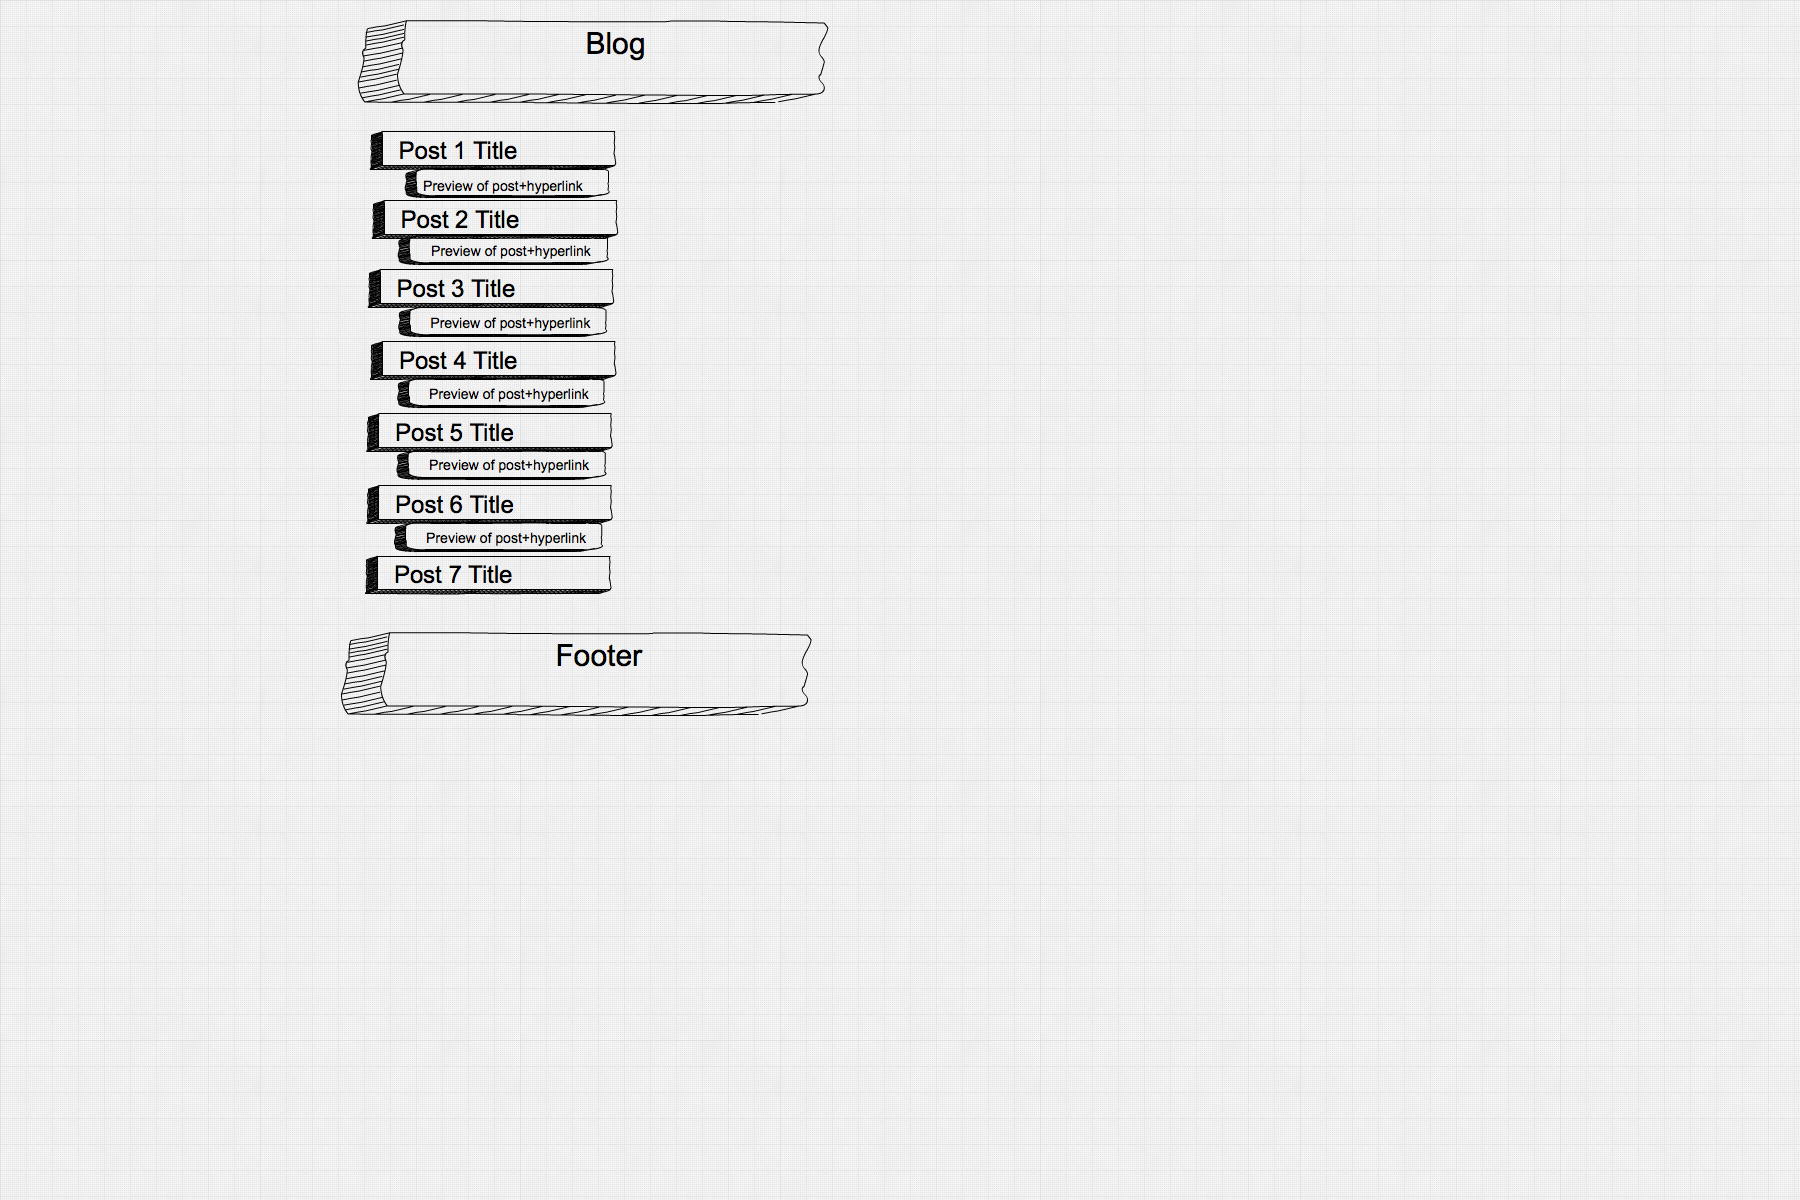
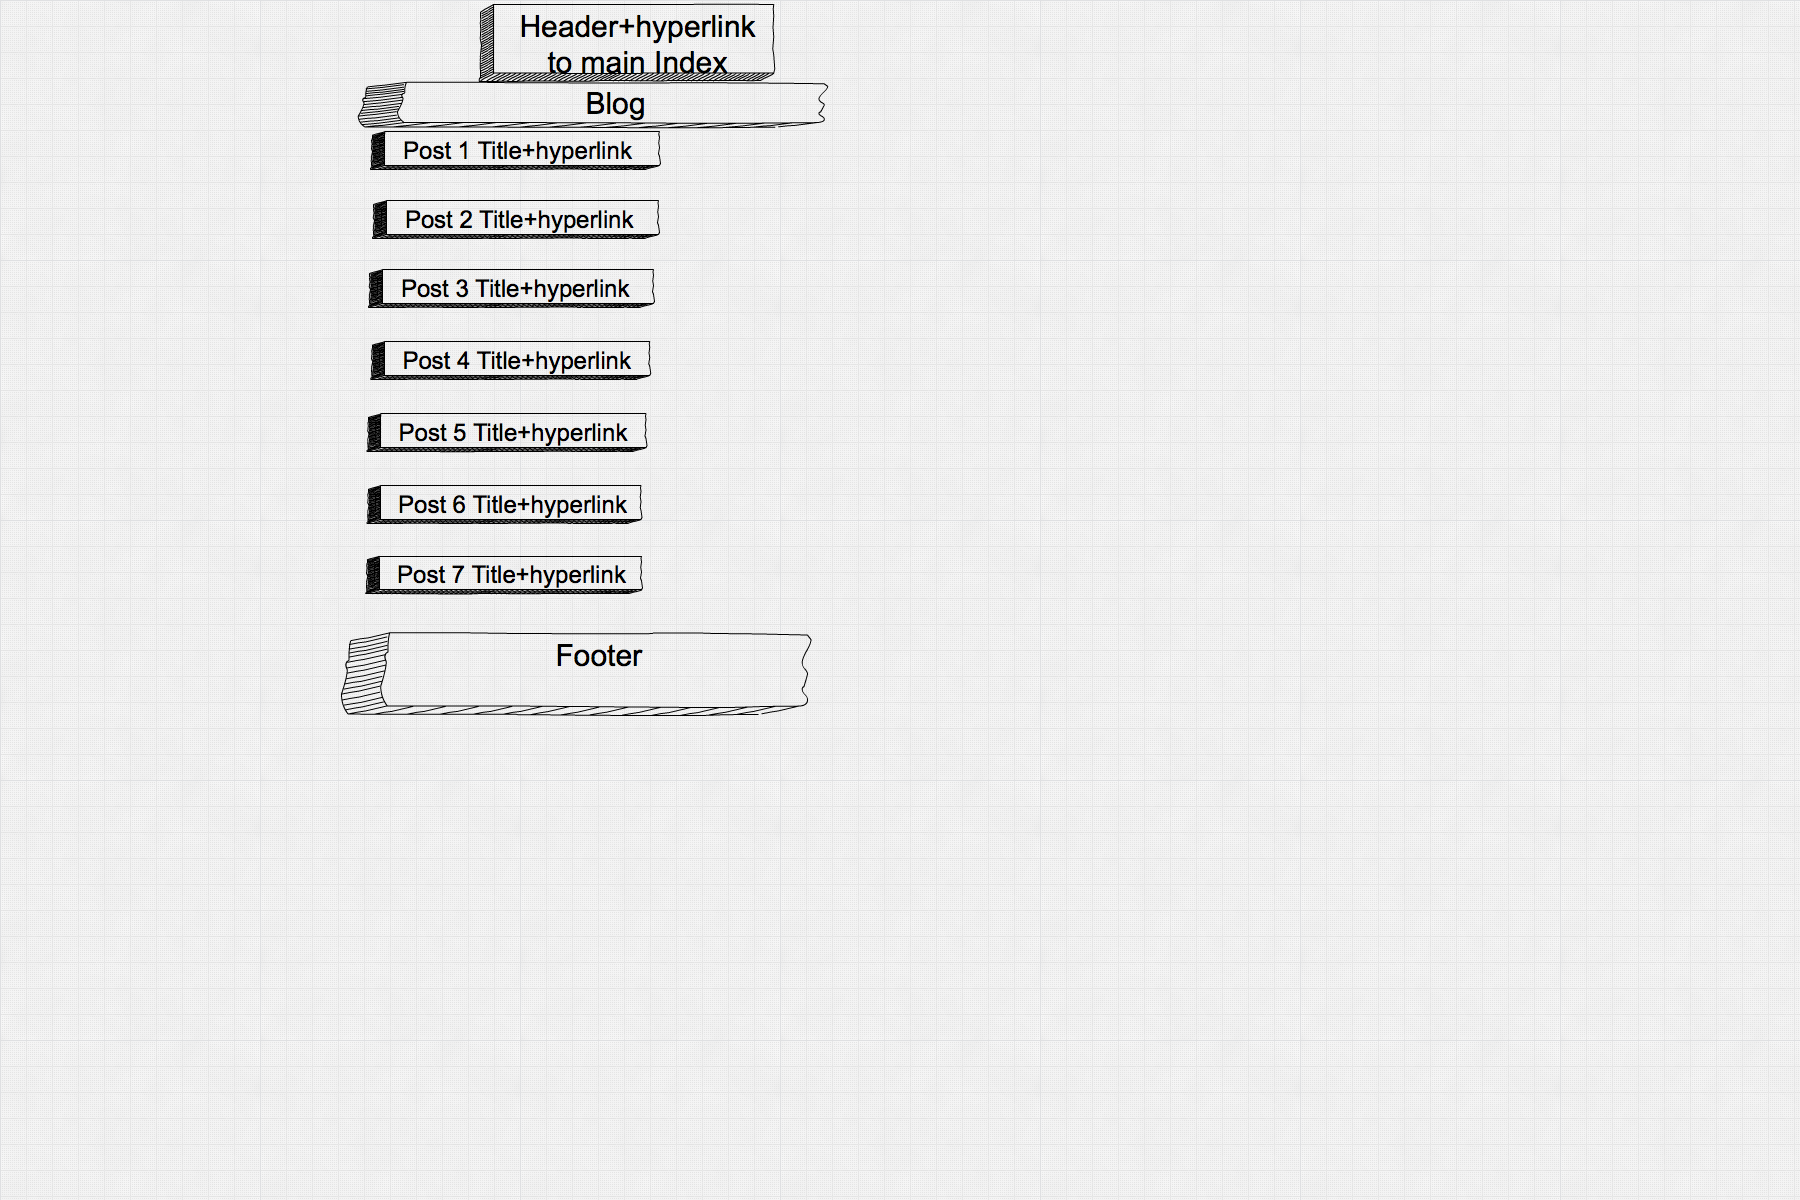
Add stylesheet for berkshire html, answer reflection questions, update berkshire html to better suite CSS additions.

Changed region(s): [[0.1867, 0.0, 0.4667, 0.4933]]

diff --git a/week-3/my-berkshire-site.html b/week-3/my-berkshire-site.html
@@ -1,0 +1,53 @@
+<!DOCTYPE html>
+    <title>BERKSHIRE HATHAWAY INC.</title>
+
+    <body>
+      <link type="text/css", rel="stylesheet", href="stylesheets/my-berkshire-stylesheet.css"/>
+    <header>
+    <span class="header1">B</span>ERKSHIRE <span class="header15">H</span>ATHAWAY<span class="header2"> INC.</span> <span class="header3"><span class="break">3555 Farnam Street</span><span class="break">Omaha, NE 68131 </span></span> <span class="header4"><span class="break">Official Home Page</span></span>
+    </header>
+    <div class="hline"></div>
+
+    <main class="main">
+    <ul class="left">
+      <li><a href = "#"> A Message From Warren E. Buffet</a></li>
+      <li><a href = "#"> Annual & Interim Reports</a><span class="updated"><p> Updated November 6, 2015</p> </span></li>
+      <li><a href = "#"> Special Letters from Warren and Charlie RE: Past, Present and Future</a></li>
+      <li><a href = "#"> Link to SEC Filings</a></li>
+      <li><a href = "#"> Corporate Governance</a></li>
+      <li><a href = "#"> Links to Berkshire Subsidiary Companies</a></li>
+      <li><a href = "#"> Corporate Governance</a></li>
+      <li><a href = "#"> Owner's Manual</a></li>
+      <li><a href = "#"> Letters from Warren E. Buffet Regarding Pledges to Make Gifts of Berkshire Stock</a></li>
+
+    </ul>
+
+    <ul class="right">
+      <li><a href = "#"> News Releases</a> <span class="updated"><p>Updated November 6, 2015</p></span> </li>
+      <li><a href = "#"> Warren Buffet's Letters to Berkshire Shareholders</a> <span class="updated"><p>Updated February 28, 2015</p></span> </li>
+      <li><a href = "#"> Charlie Munger's Letters to Wesco Shareholders</a></li>
+      <li><a href = "#"> Annual Meeting Information</a></li>
+      <li><a href = "#"> Corporate Governance</a></li>
+      <li><a href = "#"> Celebrating 50 Years of a Profitable Partnership</a><span class="updated"><p>(A Commemerative Book First Sold at the 2015 Meeting and now for sale on eBay.)</p></span></li>
+      <li><a href = "#"> Comparative Rights and Relative Prices of Class A and B Stock</a></li>
+      <li><a href = "#"> Berkshire Activewear</a></li>
+
+    </ul>
+    </main>
+
+    <div class="geico">
+
+      <div class="hline2"></div><span class="break"><a href="https://www.geico.com/"><img src="../imgs/geicoimg.gif" /></a></span>
+      <span class="blurb">FOR A FREE CAR INSURANCE RATE QUOTE THAT COULD SAVE YOU SUBSTANTIAL MONEY <span class="break"><a href ="WWW.GEICO.COM">WWW.GEICO.COM</a> OR CALL 1-888-395-6349, 24 HOURS A DAY</span><div class="hline2"></div></span>
+    </p>
+    </div>
+    <p>
+      If you have any comments about our WEB page, you can either write us at the address shown above, or email us at <a href="https://mail.google.com/mail/?view=cm&fs=1&tf=1&to=berkshire@berkshirehathaway.com">berkshire@berkshirehathaway.com</a> However, due to the limited number of personnel in our corporate office, we are unable to provide a direct response.
+    </p>
+    </body>
+
+    <footer><a href="http://www.berkshirehathaway.com/disclaimer.html">Legal Disclaimer</a>
+    <span class="copyright"><p>
+    Copyright &copy; 1978-2015 <strong>Berkshire Hathaway Inc.</strong>
+    </p></span>
+    </footer>

diff --git a/week-3/stylesheets/my-berkshire-stylesheet.css b/week-3/stylesheets/my-berkshire-stylesheet.css
@@ -1,0 +1,109 @@
+body {
+      color: #000080;
+}
+a {
+   color: #800080;
+}
+a:visited {
+           color: #ff0000;
+}
+body {
+      background-color: #ffffff;
+}
+.left {
+  float: left;
+}
+.right {
+  float: right;
+}
+footer {
+  clear: both;
+}
+div p {
+  clear: both;
+}
+.main {
+  max-width: 90%;
+}
+ul {
+  display: inline-block;
+  max-width: 40%;
+  margin: 10px 10px 10px 30px;
+}
+.updated p {
+          font-size: .6em;
+          color: #000080;
+          margin: .5%;
+}
+.left li, .right li {
+                     padding: 1%;
+                     margin: 1%;
+}
+header {
+        font-weight: bold;
+        text-align: center;
+}
+.header1 {
+          font-size: 2em;
+}
+.header15 {
+           font-size: 2em;
+}
+.header2 {
+          font-size: .75em;
+}
+.header3 p{
+          font-size: .3em;
+}
+.header4 p{
+          font-size: 1em;
+}
+.geico {
+        text-align: center;
+        clear: both;
+}
+.break {
+  display: block;
+}
+.hline {
+        width: 100%;
+        height: 1px;
+        background: #000000;
+        margin: 1%;
+}
+.hline2 {
+        width: 100%;
+        height: 1px;
+        background: #000000;
+        margin: 1%;
+}
+.blurb {
+        font-size: .5em;
+}
+.copyright {
+            font-size: .4em;
+}
+
+/*
+What is important to know when linking an external file (like a stylesheet) to an HTML file?
+
+The name and path of the file.  Otherwise it won't link properly!
+
+What tricks did you use to help you with positioning? How hard was it to get the site as you wanted it?
+
+Lots of spans and classes.  Without those I'm not sure  how I would've done it.  Maybe using a table?  It was kind of hard at points-my pair and I got stuck for a bit on how to get the "updated" portions that are under some of the links to the next line, and to get them to sit right under the link.  We used float, padding, clear, and margins as well.
+
+What CSS did you use to modify the element style (like size, color, etc.)?
+
+font-size, font-weight, color
+
+
+Did you modify the HTML to include classes or ids? If so, which did you choose and why? If you didn't, how would you know which one to add to your HTML?
+
+Yes.  So many classes!  It just seemed easier to use classes since we could use them multiple times.
+
+
+When you compared your site to the actual code base, which do you think had cleaner code that followed best practices and why?
+
+I think the source code was cleaner in terms of readability-we have spans and classes all over the place, which gets confusing if someone other than us were to try and edit the code.  However, the source code uses a table to structure pretty much the entire site, which while it is cleaner seems very strange...but maybe I'll try it at some point and it will end up being better!
+*/
